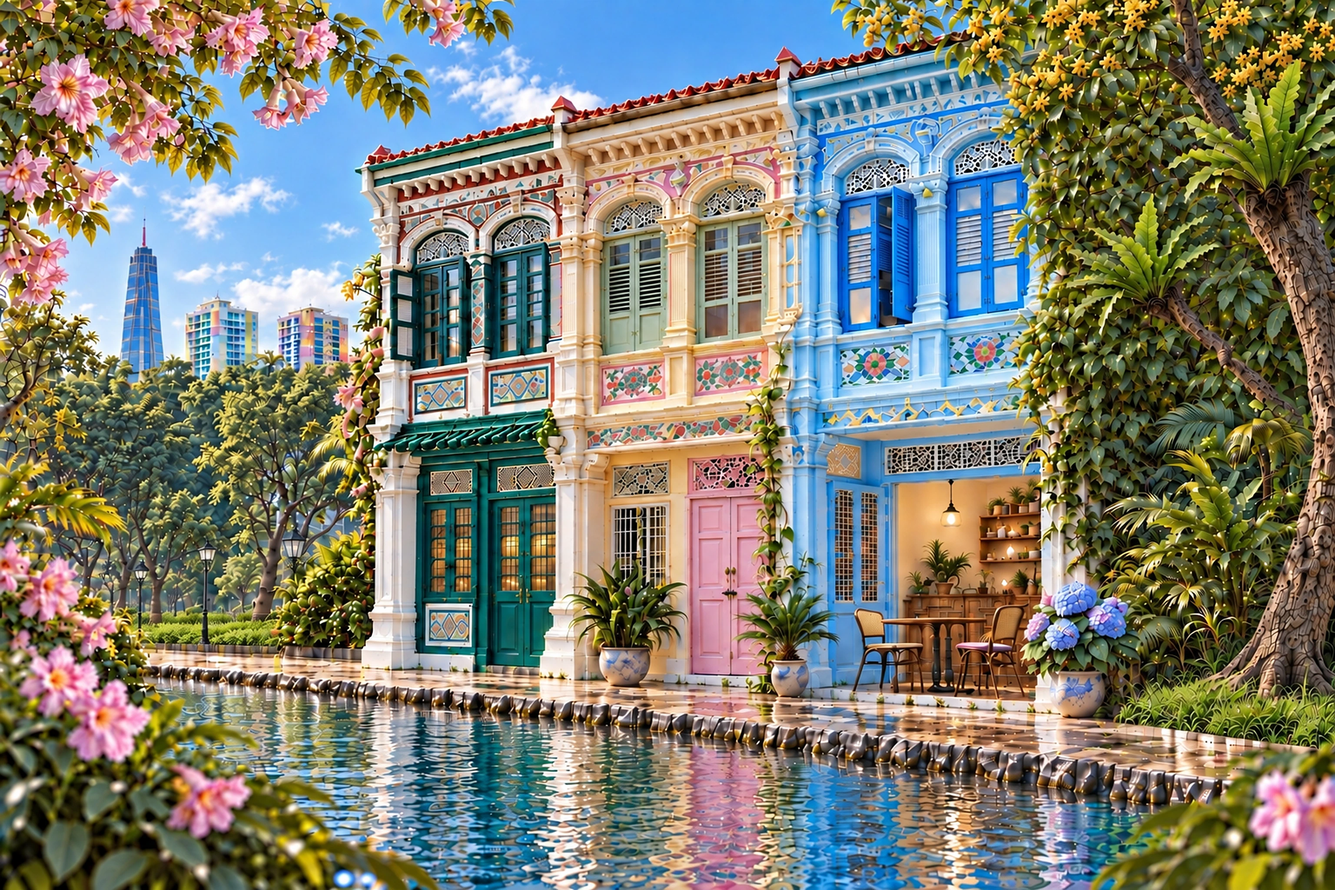
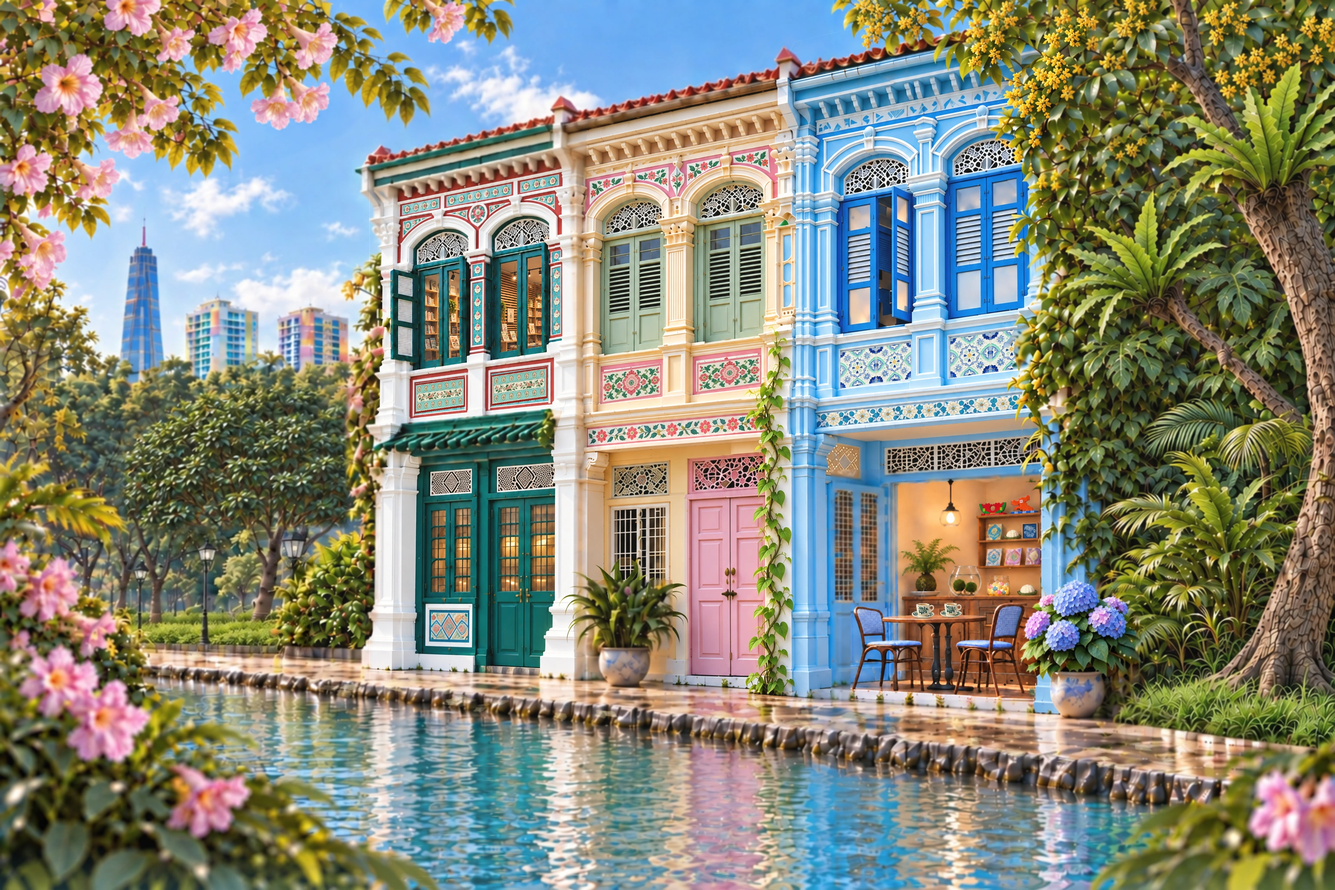
Refresh loading previews from the current scene

diff --git a/index.html b/index.html
@@ -98,7 +98,7 @@
           <div class="scene-stage">
             <img
               class="scene-fallback"
-              src="assets/scene/scene-preview-day-2x.webp?v=20260919-129"
+              src="assets/scene/scene-preview-day-2x.webp?v=20260919-131"
               width="3072"
               height="2048"
               alt="Three ornate Peranakan shophouses beside reflective rainwater, with a skyscraper and two HDB blocks in the distance."
@@ -209,7 +209,7 @@
               document.querySelector(".clock-value").textContent = label;
               const night = minutes < 390 || minutes >= 1170;
               const fallback = document.querySelector(".scene-fallback");
-              fallback.src = `assets/scene/scene-preview-${night ? "night" : "day"}-2x.webp?v=20260919-129`;
+              fallback.src = `assets/scene/scene-preview-${night ? "night" : "day"}-2x.webp?v=20260919-131`;
               const range = document.querySelector("#environment-time");
               range.value = String(minutes);
               range.setAttribute("aria-valuetext", label);
